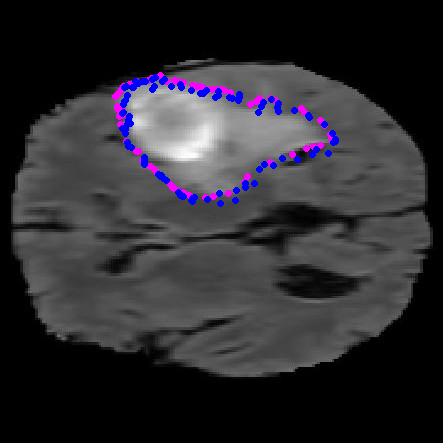
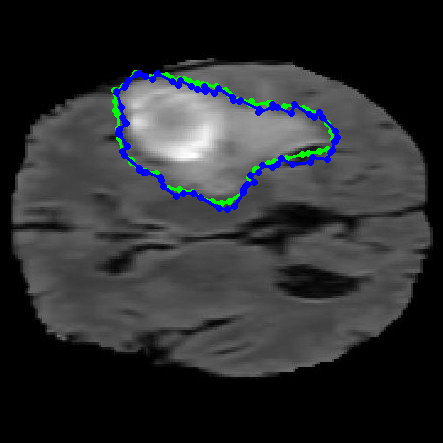
draw lines between contour points , done , but zizage appeared in solid tumor

Changed region(s): [[0.2348, 0.1467, 0.763, 0.4989]]

diff --git a/mainContour.py b/mainContour.py
@@ -68,12 +68,20 @@ def drawcontour(im , contourPoints, color,figuername ):
 	# Displaied image with contour
 	# Helper link
 	# https://pythonprogramming.net/drawing-writing-python-opencv-tutorial/
-    for i in contourPoints:
-        cv2.circle(im, i, 2 , color, thickness=2)
-    cv2.imshow(figuername , im)
-    cv2.waitKey(0)
-    cv2.destroyAllWindows()
-    return im
+	p1 = (0,0)
+	p2 = (0,0)
+    	for i ,p in enumerate(contourPoints):
+        	p1 = p
+       		if (i >= len(contourPoints)-1):
+        		p2 = contourPoints[-1]
+        	else:
+        		p2 = contourPoints[i+1]
+        	cv2.circle(im, p1, 2 , color, thickness=2)
+        	cv2.line(im, p1, p2, color, thickness=2)
+    	cv2.imshow(figuername , im)
+    	cv2.waitKey(0)
+    	cv2.destroyAllWindows()
+    	return im
 # function that saves the image 
 def saveimage(img , name ):
 	cv2.imwrite(name,img)
@@ -89,7 +97,7 @@ def initContour(imgList,imName):
 		currContour = currObj.getCoord()
 		icontours.append(currContour)
 		# draw contour initialized
-		imgwithContour = drawcontour(imgList[i],currContour,(255,0,255),"Initial Contour image-{0}".format(imName))
+		imgwithContour = drawcontour(imgList[i],currContour,(0,255,0),"Initial Contour image-{0}".format(imName))
 		# save image with contour
 		saveimage(imgwithContour ,"{0}-init-contour.png".format(imName))
 		# it works with 1st image only !! dont know why !!!
@@ -244,7 +252,7 @@ def getTotaleEnergy(internal , external):
 	return (external + internal) 
 # Functon that update Contour points using energies
 def updateContour(colimg ,imName, initcontour , exEnergy ,a,b):
-	I = drawcontour(colimg , initcontour,(255,0,255),"{0}-init contour".format(imName))
+	I = drawcontour(colimg , initcontour,(0,255,0),"{0}-init contour".format(imName))
 	for iterate in range(0,2):
 		# view imput image
 		newContour = []	# empty list carries the points of the new contour
@@ -312,18 +320,16 @@ def main():
 	#saveContourPoints(baseContours[0],nameImg[0])
 	# Load initial contours
 	sample1Contour = loadinitContour('{0}-init.txt'.format(nameImg[0]))
-	#sample3Contour = loadinitContour('init-1.txt')
 	print("Initial contour points loaded from file : DONE")
 	####	CALCULATE ENERGYIES	 #### 
 	alpha = 0.0005 # Elasticity coeffecient
 	beta = 15 # Curveture coeffcient
 	# Calculate internal energy 
-	sample1_InternalEnergy = getinternalEnergy(sample1Contour,alpha, beta)
-	print ("Calculate internal Energy of contour : DONE")
+	sample1_ExternalEnergy = getExternalEnergy(greyimgStack[0],nameImg[0])
+	print ("Calculate External Energy of contour : DONE")
 	# ---------------------------------
 	####	UPDATE	CONTOUR	POINTS 	####
-	sample1_updatedContour , sample1_updatedNumb = updateContour(colorimgStack[0],nameImg[0],
-												sample1Contour,sample1_ExternalEnergy ,alpha,beta)  
+	sample1_updatedContour , sample1_updatedNumb = updateContour(colorimgStack[0],nameImg[0],sample1Contour,sample1_ExternalEnergy ,alpha,beta)  
 	print ("Calculate Total Energy of contour : DONE")
 	
 main() 
